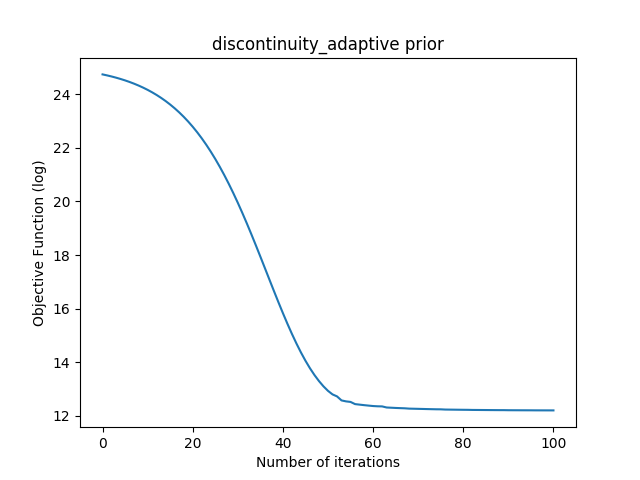
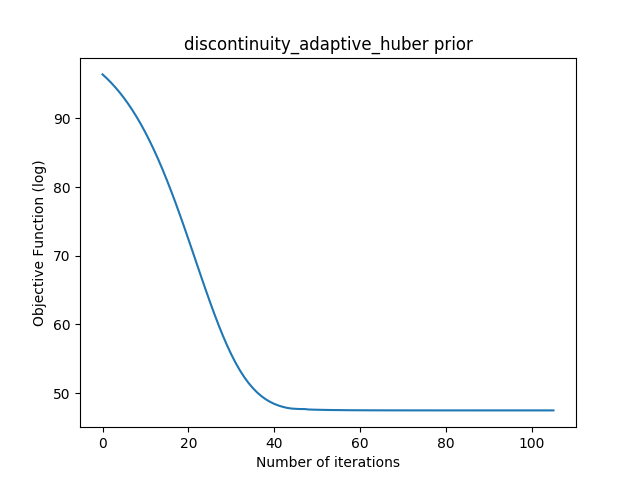
final changes + update main and results

diff --git a/assignmentDenoising/code/main.py b/assignmentDenoising/code/main.py
@@ -1,8 +1,10 @@
 import argparse
 import os
 import cv2
+import numpy as np
 import matplotlib.pyplot as plt
 from denoise import denoise
+from functions import *
 
 # Solve For question 1: Brain MRI images
 
@@ -13,84 +15,324 @@ low_noise_img = plt.imread('../data/mri_image_noise_level_low.png')
 med_noise_img = plt.imread('../data/mri_image_noise_level_medium.png')
 high_noise_img = plt.imread('../data/mri_image_noise_level_high.png')
 
-# Quadratic Prior
+print('QUADRATIC PRIOR')
+
 print('\n---------------------------------------------------------------------------------')
 print('Denoising Low Noise Level Image...')
-denoise(low_noise_img, denoised_img, beta=0.0875, optimize_mode=False, prior='quadratic', 
+denoise(low_noise_img, denoised_img, alpha=0.0875, optimize_mode=False, prior='quadratic', 
 	save_results_dir=os.path.join(save_results_dir, 'quadratic', 'low_noise_level'))
-print('RRMSE at 1.2 times optimum beta=', round(denoise(low_noise_img, denoised_img, beta=0.0875*1.2, optimize_mode=True, prior='quadratic', 
+print('RRMSE at 1.2 times optimum alpha=', round(denoise(low_noise_img, denoised_img, alpha=0.0875*1.2, optimize_mode=True, prior='quadratic', 
 	save_results_dir=os.path.join(save_results_dir, 'quadratic', 'low_noise_level')), 5))
-print('RRMSE at 0.8 times optimum beta=', round(denoise(low_noise_img, denoised_img, beta=0.0875*0.8, optimize_mode=True, prior='quadratic', 
+print('RRMSE at 0.8 times optimum alpha=', round(denoise(low_noise_img, denoised_img, alpha=0.0875*0.8, optimize_mode=True, prior='quadratic', 
 	save_results_dir=os.path.join(save_results_dir, 'quadratic', 'low_noise_level')), 5))
 print('---------------------------------------------------------------------------------\n')
 
 print('\n---------------------------------------------------------------------------------')
 print('Denoising Medium Noise Level Image...')
-denoise(med_noise_img, denoised_img, beta=0.1773, optimize_mode=False, prior='quadratic', 
+denoise(med_noise_img, denoised_img, alpha=0.1773, optimize_mode=False, prior='quadratic', 
 	save_results_dir=os.path.join(save_results_dir, 'quadratic', 'med_noise_level'))
-print('RRMSE at 1.2 times optimum beta=', round(denoise(med_noise_img, denoised_img, beta=0.1773*1.2, optimize_mode=True, prior='quadratic', 
+print('RRMSE at 1.2 times optimum alpha=', round(denoise(med_noise_img, denoised_img, alpha=0.1773*1.2, optimize_mode=True, prior='quadratic', 
 	save_results_dir=os.path.join(save_results_dir, 'quadratic', 'low_noise_level')), 5))
-print('RRMSE at 0.8 times optimum beta=', round(denoise(med_noise_img, denoised_img, beta=0.1773*0.8, optimize_mode=True, prior='quadratic', 
+print('RRMSE at 0.8 times optimum alpha=', round(denoise(med_noise_img, denoised_img, alpha=0.1773*0.8, optimize_mode=True, prior='quadratic', 
 	save_results_dir=os.path.join(save_results_dir, 'quadratic', 'low_noise_level')), 5))
 print('---------------------------------------------------------------------------------\n')
 
 print('\n---------------------------------------------------------------------------------')
 print('Denoising High Noise Level Image...')
-denoise(high_noise_img, denoised_img, beta=0.2407, optimize_mode=False, prior='quadratic', 
+denoise(high_noise_img, denoised_img, alpha=0.2407, optimize_mode=False, prior='quadratic', 
 	save_results_dir=os.path.join(save_results_dir, 'quadratic', 'high_noise_level'))
-print('RRMSE at 1.2 times optimum beta=', round(denoise(high_noise_img, denoised_img, beta=0.2407*1.2, optimize_mode=True, prior='quadratic', 
+print('RRMSE at 1.2 times optimum alpha=', round(denoise(high_noise_img, denoised_img, alpha=0.2407*1.2, optimize_mode=True, prior='quadratic', 
 	save_results_dir=os.path.join(save_results_dir, 'quadratic', 'low_noise_level')), 5))
-print('RRMSE at 0.8 times optimum beta=', round(denoise(high_noise_img, denoised_img, beta=0.2407*0.8, optimize_mode=True, prior='quadratic', 
+print('RRMSE at 0.8 times optimum alpha=', round(denoise(high_noise_img, denoised_img, alpha=0.2407*0.8, optimize_mode=True, prior='quadratic', 
 	save_results_dir=os.path.join(save_results_dir, 'quadratic', 'low_noise_level')), 5))
 print('---------------------------------------------------------------------------------\n')
 
 
+print('DISCONTINUITY ADAPTIVE PRIOR')
 
+print('\n---------------------------------------------------------------------------------')
+print('Denoising Low Noise Level Image...')
+denoise(low_noise_img, denoised_img, alpha=0.8748, gamma=0.0023, optimize_mode=False, prior='discontinuity_adaptive', 
+	save_results_dir=os.path.join(save_results_dir, 'discontinuity_adaptive', 'low_noise_level'))
+print('RRMSE at 1.2 times optimum alpha=', round(denoise(high_noise_img, denoised_img, alpha=0.8748*1.2, gamma=0.0023, optimize_mode=True, prior='discontinuity_adaptive', 
+	save_results_dir=os.path.join(save_results_dir, 'discontinuity_adaptive', 'low_noise_level')), 5))
+print('RRMSE at 0.8 times optimum alpha=', round(denoise(high_noise_img, denoised_img, alpha=0.8748*0.8, gamma=0.0023, optimize_mode=True, prior='discontinuity_adaptive', 
+	save_results_dir=os.path.join(save_results_dir, 'discontinuity_adaptive', 'low_noise_level')), 5))
+print('RRMSE at 1.2 times optimum gamma=', round(denoise(high_noise_img, denoised_img, alpha=0.8748, gamma=0.0023*1.2, optimize_mode=True, prior='discontinuity_adaptive', 
+	save_results_dir=os.path.join(save_results_dir, 'discontinuity_adaptive', 'low_noise_level')), 5))
+print('RRMSE at 0.8 times optimum gamma=', round(denoise(high_noise_img, denoised_img, alpha=0.8748, gamma=0.0023*0.8, optimize_mode=True, prior='discontinuity_adaptive', 
+	save_results_dir=os.path.join(save_results_dir, 'discontinuity_adaptive', 'low_noise_level')), 5))
+print('---------------------------------------------------------------------------------\n')
 
-# Discontinuity Adaptive Huber Prior
-# print('\n---------------------------------------------------------------------------------')
-# print('Denoising Low Noise Level Image...')
-# denoise(low_noise_img, denoised_img, beta=0.0875, optimize_mode=False, prior='discontinuity_adaptive_huber', 
-# 	save_results_dir=os.path.join(save_results_dir, 'discontinuity_adaptive_huber', 'low_noise_level'))
-# print('---------------------------------------------------------------------------------\n')
-
-# print('\n---------------------------------------------------------------------------------')
-# print('Denoising Medium Noise Level Image...')
-# denoise(med_noise_img, denoised_img, beta=0.1773, optimize_mode=False, prior='discontinuity_adaptive_huber', 
-# 	save_results_dir=os.path.join(save_results_dir, 'discontinuity_adaptive_huber', 'med_noise_level'))
-# print('---------------------------------------------------------------------------------\n')
-
-# print('\n---------------------------------------------------------------------------------')
-# print('Denoising High Noise Level Image...')
-# denoise(high_noise_img, denoised_img, beta=0.2407, optimize_mode=False, prior='discontinuity_adaptive_huber', 
-# 	save_results_dir=os.path.join(save_results_dir, 'discontinuity_adaptive_huber', 'high_noise_level'))
-# print('---------------------------------------------------------------------------------\n')
+print('\n---------------------------------------------------------------------------------')
+print('Denoising Medium Noise Level Image...')
+denoise(med_noise_img, denoised_img, alpha=0.8862, gamma=0.00438, optimize_mode=False, prior='discontinuity_adaptive', 
+	save_results_dir=os.path.join(save_results_dir, 'discontinuity_adaptive', 'med_noise_level'))
+print('RRMSE at 1.2 times optimum alpha=', round(denoise(high_noise_img, denoised_img, alpha=0.8862*1.2, gamma=0.00438, optimize_mode=True, prior='discontinuity_adaptive', 
+	save_results_dir=os.path.join(save_results_dir, 'discontinuity_adaptive', 'med_noise_level')), 5))
+print('RRMSE at 0.8 times optimum alpha=', round(denoise(high_noise_img, denoised_img, alpha=0.8862*0.8, gamma=0.00438, optimize_mode=True, prior='discontinuity_adaptive', 
+	save_results_dir=os.path.join(save_results_dir, 'discontinuity_adaptive', 'med_noise_level')), 5))
+print('RRMSE at 1.2 times optimum gamma=', round(denoise(high_noise_img, denoised_img, alpha=0.8862, gamma=0.00438*1.2, optimize_mode=True, prior='discontinuity_adaptive', 
+	save_results_dir=os.path.join(save_results_dir, 'discontinuity_adaptive', 'med_noise_level')), 5))
+print('RRMSE at 0.8 times optimum gamma=', round(denoise(high_noise_img, denoised_img, alpha=0.8862, gamma=0.00438*0.8, optimize_mode=True, prior='discontinuity_adaptive', 
+	save_results_dir=os.path.join(save_results_dir, 'discontinuity_adaptive', 'med_noise_level')), 5))
+print('---------------------------------------------------------------------------------\n')
 
 print('\n---------------------------------------------------------------------------------')
 print('Denoising High Noise Level Image...')
-denoise(high_noise_img, denoised_img, beta=0.9449, gamma=0.003, optimize_mode=False, prior='discontinuity_adaptive', 
-	save_results_dir=os.path.join(save_results_dir, 'discontinuity_adaptive_huber', 'high_noise_level'))
-print('RRMSE at 1.2 times optimum beta=', round(denoise(high_noise_img, denoised_img, beta=0.9449*1.2, gamma=0.003, optimize_mode=True, prior='discontinuity_adaptive', 
-	save_results_dir=os.path.join(save_results_dir, 'discontinuity_adaptive', 'low_noise_level')), 5))
-print('RRMSE at 0.8 times optimum beta=', round(denoise(high_noise_img, denoised_img, beta=0.9449*0.8, gamma=0.003, optimize_mode=True, prior='discontinuity_adaptive', 
-	save_results_dir=os.path.join(save_results_dir, 'discontinuity_adaptive', 'low_noise_level')), 5))
-print('RRMSE at 1.2 times optimum gamma=', round(denoise(high_noise_img, denoised_img, beta=0.9449, gamma=0.003*1.3, optimize_mode=True, prior='discontinuity_adaptive', 
-	save_results_dir=os.path.join(save_results_dir, 'discontinuity_adaptive', 'low_noise_level')), 5))
-print('RRMSE at 0.8 times optimum gamma=', round(denoise(high_noise_img, denoised_img, beta=0.9449, gamma=0.003*0.8, optimize_mode=True, prior='discontinuity_adaptive', 
-	save_results_dir=os.path.join(save_results_dir, 'discontinuity_adaptive', 'low_noise_level')), 5))
+denoise(high_noise_img, denoised_img, alpha=0.8738, gamma=0.008, optimize_mode=False, prior='discontinuity_adaptive', 
+	save_results_dir=os.path.join(save_results_dir, 'discontinuity_adaptive', 'high_noise_level'))
+print('RRMSE at 1.2 times optimum alpha=', round(denoise(high_noise_img, denoised_img, alpha=0.8738*1.2, gamma=0.008, optimize_mode=True, prior='discontinuity_adaptive', 
+	save_results_dir=os.path.join(save_results_dir, 'discontinuity_adaptive', 'high_noise_level')), 5))
+print('RRMSE at 0.8 times optimum alpha=', round(denoise(high_noise_img, denoised_img, alpha=0.8738*0.8, gamma=0.008, optimize_mode=True, prior='discontinuity_adaptive', 
+	save_results_dir=os.path.join(save_results_dir, 'discontinuity_adaptive', 'high_noise_level')), 5))
+print('RRMSE at 1.2 times optimum gamma=', round(denoise(high_noise_img, denoised_img, alpha=0.8738, gamma=0.008*1.2, optimize_mode=True, prior='discontinuity_adaptive', 
+	save_results_dir=os.path.join(save_results_dir, 'discontinuity_adaptive', 'high_noise_level')), 5))
+print('RRMSE at 0.8 times optimum gamma=', round(denoise(high_noise_img, denoised_img, alpha=0.8738, gamma=0.008*0.8, optimize_mode=True, prior='discontinuity_adaptive', 
+	save_results_dir=os.path.join(save_results_dir, 'discontinuity_adaptive', 'high_noise_level')), 5))
 print('---------------------------------------------------------------------------------\n')
+
+
+print('DISCONTINUITY ADAPTIVE HUBER PRIOR')
+
+print('\n---------------------------------------------------------------------------------')
+print('Denoising Low Noise Level Image...')
+denoise(low_noise_img, denoised_img, alpha=0.8748, gamma=0.00211, optimize_mode=False, prior='discontinuity_adaptive_huber', 
+	save_results_dir=os.path.join(save_results_dir, 'discontinuity_adaptive_huber', 'low_noise_level'))
+print('RRMSE at 1.2 times optimum alpha=', round(denoise(high_noise_img, denoised_img, alpha=0.8748*1.2, gamma=0.00211, optimize_mode=True, prior='discontinuity_adaptive_huber', 
+	save_results_dir=os.path.join(save_results_dir, 'discontinuity_adaptive_huber', 'low_noise_level')), 5))
+print('RRMSE at 0.8 times optimum alpha=', round(denoise(high_noise_img, denoised_img, alpha=0.8748*0.8, gamma=0.00211, optimize_mode=True, prior='discontinuity_adaptive_huber', 
+	save_results_dir=os.path.join(save_results_dir, 'discontinuity_adaptive_huber', 'low_noise_level')), 5))
+print('RRMSE at 1.2 times optimum gamma=', round(denoise(high_noise_img, denoised_img, alpha=0.8748, gamma=0.00211*1.2, optimize_mode=True, prior='discontinuity_adaptive_huber', 
+	save_results_dir=os.path.join(save_results_dir, 'discontinuity_adaptive_huber', 'low_noise_level')), 5))
+print('RRMSE at 0.8 times optimum gamma=', round(denoise(high_noise_img, denoised_img, alpha=0.8748, gamma=0.00211*0.8, optimize_mode=True, prior='discontinuity_adaptive_huber', 
+	save_results_dir=os.path.join(save_results_dir, 'discontinuity_adaptive_huber', 'low_noise_level')), 5))
+print('---------------------------------------------------------------------------------\n')
+
+print('\n---------------------------------------------------------------------------------')
+print('Denoising Medium Noise Level Image...')
+denoise(med_noise_img, denoised_img, alpha=0.8663, gamma=0.0048, optimize_mode=False, prior='discontinuity_adaptive_huber', 
+	save_results_dir=os.path.join(save_results_dir, 'discontinuity_adaptive_huber', 'med_noise_level'))
+print('RRMSE at 1.2 times optimum alpha=', round(denoise(high_noise_img, denoised_img, alpha=0.8663*1.2, gamma=0.0048, optimize_mode=True, prior='discontinuity_adaptive_huber', 
+	save_results_dir=os.path.join(save_results_dir, 'discontinuity_adaptive_huber', 'med_noise_level')), 5))
+print('RRMSE at 0.8 times optimum alpha=', round(denoise(high_noise_img, denoised_img, alpha=0.8663*0.8, gamma=0.0048, optimize_mode=True, prior='discontinuity_adaptive_huber', 
+	save_results_dir=os.path.join(save_results_dir, 'discontinuity_adaptive_huber', 'med_noise_level')), 5))
+print('RRMSE at 1.2 times optimum gamma=', round(denoise(high_noise_img, denoised_img, alpha=0.8663, gamma=0.0048*1.2, optimize_mode=True, prior='discontinuity_adaptive_huber', 
+	save_results_dir=os.path.join(save_results_dir, 'discontinuity_adaptive_huber', 'med_noise_level')), 5))
+print('RRMSE at 0.8 times optimum gamma=', round(denoise(high_noise_img, denoised_img, alpha=0.8663, gamma=0.0048*0.8, optimize_mode=True, prior='discontinuity_adaptive_huber', 
+	save_results_dir=os.path.join(save_results_dir, 'discontinuity_adaptive_huber', 'med_noise_level')), 5))
+print('---------------------------------------------------------------------------------\n')
+
+
+print('\n---------------------------------------------------------------------------------')
+print('Denoising High Noise Level Image...')
+denoise(high_noise_img, denoised_img, alpha=0.7729, gamma=0.01389, optimize_mode=False, prior='discontinuity_adaptive_huber', 
+	save_results_dir=os.path.join(save_results_dir, 'discontinuity_adaptive_huber', 'high_noise_level'))
+print('RRMSE at 1.2 times optimum alpha=', round(denoise(high_noise_img, denoised_img, alpha=0.7729*1.2, gamma=0.01389, optimize_mode=True, prior='discontinuity_adaptive_huber', 
+	save_results_dir=os.path.join(save_results_dir, 'discontinuity_adaptive_huber', 'high_noise_level')), 5))
+print('RRMSE at 0.8 times optimum alpha=', round(denoise(high_noise_img, denoised_img, alpha=0.7729*0.8, gamma=0.01389, optimize_mode=True, prior='discontinuity_adaptive_huber', 
+	save_results_dir=os.path.join(save_results_dir, 'discontinuity_adaptive_huber', 'high_noise_level')), 5))
+print('RRMSE at 1.2 times optimum gamma=', round(denoise(high_noise_img, denoised_img, alpha=0.7729, gamma=0.01389*1.2, optimize_mode=True, prior='discontinuity_adaptive_huber', 
+	save_results_dir=os.path.join(save_results_dir, 'discontinuity_adaptive_huber', 'high_noise_level')), 5))
+print('RRMSE at 0.8 times optimum gamma=', round(denoise(high_noise_img, denoised_img, alpha=0.7729, gamma=0.01389*0.8, optimize_mode=True, prior='discontinuity_adaptive_huber', 
+	save_results_dir=os.path.join(save_results_dir, 'discontinuity_adaptive_huber', 'high_noise_level')), 5))
+print('---------------------------------------------------------------------------------\n')
+
 
 
 # Solve For question 2: Histology Images
 
-denoised_img = cv2.imread('../data/histology_noiseless.png')
-denoised_img = cv2.normalize(denoised_img.astype('float'), None, 0.0, 1.0, cv2.NORM_MINMAX)
-noisy_img = cv2.imread('../data/histology_noisy.png')
-noisy_img = cv2.normalize(denoised_img.astype('float'), None, 0.0, 1.0, cv2.NORM_MINMAX)
+noiseless_img = cv2.cvtColor(plt.imread('../data/histology_noiseless.png'), cv2.COLOR_BGR2HSV)
+noisy_img = cv2.cvtColor(plt.imread('../data/histology_noisy.png'), cv2.COLOR_BGR2HSV)
 
-# print('Solving for Histology Image')
-# denoise(noisy_img, denoised_img)
+print('\n Solving Question 2. Original RMSE:', rrmse(noiseless_img, noisy_img))
 
+print('\nQuestion 2: QUADRATIC PRIOR')
+save_results_dir = '../results/q2/'
+
+print('\n---------------------------------------------------------------------------------')
+print('Denoising H Channel...')
+channel_0, post_values_0 = denoise(noisy_img[:,:,0], noiseless_img[:,:,0], alpha=0.9919, gamma=0, optimize_mode=False, prior='quadratic', 
+	save_results_dir=os.path.join(save_results_dir, 'quadratic', 'H'), color_mode=True)
+print('RRMSE at 1.2 times optimum alpha=', round(denoise(noisy_img[:,:,0], noiseless_img[:,:,0], alpha=0.9919*1.2, gamma=1, optimize_mode=True, prior='quadratic', 
+	color_mode=True), 5))
+print('RRMSE at 0.8 times optimum alpha=', round(denoise(noisy_img[:,:,0], noiseless_img[:,:,0], alpha=0.9919*0.8, gamma=1, optimize_mode=True, prior='quadratic', 
+	color_mode=True), 5))
+print('---------------------------------------------------------------------------------\n')
+
+print('\n---------------------------------------------------------------------------------')
+print('Denoising S Channel...')
+channel_1, post_values_1 = denoise(noisy_img[:,:,1], noiseless_img[:,:,1], alpha=0.75275, gamma=0, optimize_mode=False, prior='quadratic', 
+	save_results_dir=os.path.join(save_results_dir, 'quadratic', 'S'), color_mode=True)
+print('RRMSE at 1.2 times optimum alpha=', round(denoise(noisy_img[:,:,1], noiseless_img[:,:,1], alpha=0.75275*1.2, gamma=1, optimize_mode=True, prior='quadratic', 
+	color_mode=True), 5))
+print('RRMSE at 0.8 times optimum alpha=', round(denoise(noisy_img[:,:,1], noiseless_img[:,:,1], alpha=0.75275*0.8, gamma=1, optimize_mode=True, prior='quadratic', 
+	color_mode=True), 5))
+print('---------------------------------------------------------------------------------\n')
+
+print('\n---------------------------------------------------------------------------------')
+print('Denoising V Channel...')
+channel_2, post_values_2 = denoise(noisy_img[:,:,2], noiseless_img[:,:,2], alpha=0.7137, gamma=0, optimize_mode=False, prior='quadratic', 
+	save_results_dir=os.path.join(save_results_dir, 'quadratic', 'V'), color_mode=True)
+print('RRMSE at 1.2 times optimum alpha=', round(denoise(noisy_img[:,:,2], noiseless_img[:,:,2], alpha=0.7137*1.2, gamma=1, optimize_mode=True, prior='quadratic', 
+	color_mode=True), 5))
+print('RRMSE at 0.8 times optimum alpha=', round(denoise(noisy_img[:,:,2], noiseless_img[:,:,2], alpha=0.7137*0.8, gamma=1, optimize_mode=True, prior='quadratic', 
+	color_mode=True), 5))
+print('---------------------------------------------------------------------------------\n')
+
+
+denoised_img = np.zeros_like(noisy_img)
+denoised_img[:,:,0] = channel_0 
+denoised_img[:,:,1] = channel_1
+denoised_img[:,:,2] = channel_2
+
+plt.imshow(noisy_img)
+plt.savefig(os.path.join(save_results_dir, 'noisy_img.png'))
+plt.imshow(noiseless_img)
+plt.savefig(os.path.join(save_results_dir, 'ground_turth_denoised_img.png'))
+
+plt.imshow(denoised_img)
+plt.savefig(os.path.join(save_results_dir, 'quadratic_denoised_img.png'))
+plt.clf()
+plt.plot(post_values_0, label='H Channel')
+plt.plot(post_values_1, label='S Channel')
+plt.plot(post_values_2, label='V Channel')
+plt.legend()
+plt.xlabel('Number of iterations')
+plt.ylabel('Objective Function (log)')
+plt.title('Quadratic prior')
+plt.savefig(os.path.join(save_results_dir, 'quadratic_all_channel_objective_function.png'))
+
+print('\nRMSE after quadratic prior denoising:', rrmse(noiseless_img, denoised_img))
+
+print('\nQuestion 2: HUBER PRIOR')
+
+print('\n---------------------------------------------------------------------------------')
+print('Denoising H Channel...')
+channel_0, post_values_0 = denoise(noisy_img[:,:,0], noiseless_img[:,:,0], alpha=1, gamma=1, optimize_mode=False, prior='discontinuity_adaptive_huber', 
+	save_results_dir=os.path.join(save_results_dir, 'huber', 'H'), color_mode=True)
+print('RRMSE at 1.2 times optimum alpha=', round(denoise(noisy_img[:,:,0], noiseless_img[:,:,0], alpha=1*1.2, gamma=1, optimize_mode=True, prior='discontinuity_adaptive_huber', 
+	color_mode=True), 5))
+print('RRMSE at 0.8 times optimum alpha=', round(denoise(noisy_img[:,:,0], noiseless_img[:,:,0], alpha=1*0.8, gamma=1, optimize_mode=True, prior='discontinuity_adaptive_huber', 
+	color_mode=True), 5))
+print('RRMSE at 1.2 times optimum gamma=', round(denoise(noisy_img[:,:,0], noiseless_img[:,:,0], alpha=1, gamma=1*1.2, optimize_mode=True, prior='discontinuity_adaptive_huber', 
+	color_mode=True), 5))
+print('RRMSE at 0.8 times optimum gamma=', round(denoise(noisy_img[:,:,0], noiseless_img[:,:,0], alpha=1, gamma=1*0.8, optimize_mode=True, prior='discontinuity_adaptive_huber', 
+	color_mode=True), 5))
+print('---------------------------------------------------------------------------------\n')
+
+print('\n---------------------------------------------------------------------------------')
+print('Denoising S Channel...')
+channel_1, post_values_1 = denoise(noisy_img[:,:,1], noiseless_img[:,:,1], alpha=0.8974, gamma=0.02662, optimize_mode=False, prior='discontinuity_adaptive_huber', 
+	save_results_dir=os.path.join(save_results_dir, 'huber', 'S'), color_mode=True)
+print('RRMSE at 1.2 times optimum alpha=', round(denoise(noisy_img[:,:,1], noiseless_img[:,:,1], alpha=0.8974*1.2, gamma=0.02662, optimize_mode=True, prior='discontinuity_adaptive_huber', 
+	color_mode=True), 5))
+print('RRMSE at 0.8 times optimum alpha=', round(denoise(noisy_img[:,:,1], noiseless_img[:,:,1], alpha=0.8974*0.8, gamma=0.02662, optimize_mode=True, prior='discontinuity_adaptive_huber', 
+	color_mode=True), 5))
+print('RRMSE at 1.2 times optimum gamma=', round(denoise(noisy_img[:,:,1], noiseless_img[:,:,1], alpha=0.8974, gamma=0.02662*1.2, optimize_mode=True, prior='discontinuity_adaptive_huber', 
+	color_mode=True), 5))
+print('RRMSE at 0.8 times optimum gamma=', round(denoise(noisy_img[:,:,1], noiseless_img[:,:,1], alpha=0.8974, gamma=0.02662*0.8, optimize_mode=True, prior='discontinuity_adaptive_huber', 
+	color_mode=True), 5))
+print('---------------------------------------------------------------------------------\n')
+
+print('\n---------------------------------------------------------------------------------')
+print('Denoising V Channel...')
+channel_2, post_values_2 = denoise(noisy_img[:,:,2], noiseless_img[:,:,2], alpha=0.8718, gamma=0.02662, optimize_mode=False, prior='discontinuity_adaptive_huber', 
+	save_results_dir=os.path.join(save_results_dir, 'huber', 'V'), color_mode=True)
+print('RRMSE at 1.2 times optimum alpha=', round(denoise(noisy_img[:,:,2], noiseless_img[:,:,2], alpha=0.8718*1.2, gamma=0.02662, optimize_mode=True, prior='discontinuity_adaptive_huber', 
+	color_mode=True), 5))
+print('RRMSE at 0.8 times optimum alpha=', round(denoise(noisy_img[:,:,2], noiseless_img[:,:,2], alpha=0.8718*0.8, gamma=0.02662, optimize_mode=True, prior='discontinuity_adaptive_huber', 
+	color_mode=True), 5))
+print('RRMSE at 1.2 times optimum gamma=', round(denoise(noisy_img[:,:,2], noiseless_img[:,:,2], alpha=0.8718, gamma=0.02662*1.2, optimize_mode=True, prior='discontinuity_adaptive_huber', 
+	color_mode=True), 5))
+print('RRMSE at 0.8 times optimum gamma=', round(denoise(noisy_img[:,:,2], noiseless_img[:,:,2], alpha=0.8718, gamma=0.02662*0.8, optimize_mode=True, prior='discontinuity_adaptive_huber', 
+	color_mode=True), 5))
+print('---------------------------------------------------------------------------------\n')
+
+
+denoised_img = np.zeros_like(noisy_img)
+denoised_img[:,:,0] = channel_0 
+denoised_img[:,:,1] = channel_1
+denoised_img[:,:,2] = channel_2
+
+plt.imshow(denoised_img)
+plt.savefig(os.path.join(save_results_dir, 'huber_denoised_img.png'))
+plt.clf()
+plt.plot(post_values_0, label='H Channel')
+plt.plot(post_values_1, label='S Channel')
+plt.plot(post_values_2, label='V Channel')
+plt.legend()
+plt.xlabel('Number of iterations')
+plt.ylabel('Objective Function (log)')
+plt.title('Discontinuity Adaptive Huber prior')
+plt.savefig(os.path.join(save_results_dir, 'huber_all_channel_objective_function.png'))
+
+print('\nRMSE after huber prior denoising:', rrmse(noiseless_img, denoised_img))
+
+
+print('Question 2: DISCONTINUITY ADAPTIVE PRIOR')
+
+print('\n---------------------------------------------------------------------------------')
+print('Denoising H Channel...')
+channel_0, post_values_0 = denoise(noisy_img[:,:,0], noiseless_img[:,:,0], alpha=1, gamma=1, optimize_mode=False, prior='discontinuity_adaptive', 
+	save_results_dir=os.path.join(save_results_dir, 'adaptive', 'H'), color_mode=True)
+print('RRMSE at 1.2 times optimum alpha=', round(denoise(noisy_img[:,:,0], noiseless_img[:,:,0], alpha=1*1.2, gamma=1, optimize_mode=True, prior='discontinuity_adaptive', 
+	color_mode=True), 5))
+print('RRMSE at 0.8 times optimum alpha=', round(denoise(noisy_img[:,:,0], noiseless_img[:,:,0], alpha=1*0.8, gamma=1, optimize_mode=True, prior='discontinuity_adaptive', 
+	color_mode=True), 5))
+print('RRMSE at 1.2 times optimum gamma=', round(denoise(noisy_img[:,:,0], noiseless_img[:,:,0], alpha=1, gamma=1*1.2, optimize_mode=True, prior='discontinuity_adaptive', 
+	color_mode=True), 5))
+print('RRMSE at 0.8 times optimum gamma=', round(denoise(noisy_img[:,:,0], noiseless_img[:,:,0], alpha=1, gamma=1*0.8, optimize_mode=True, prior='discontinuity_adaptive', 
+	color_mode=True), 5))
+print('---------------------------------------------------------------------------------\n')
+
+print('\n---------------------------------------------------------------------------------')
+print('Denoising S Channel...')
+channel_1, post_values_1 = denoise(noisy_img[:,:,1], noiseless_img[:,:,1], alpha=0.93878, gamma=0.02139, optimize_mode=False, prior='discontinuity_adaptive', 
+	save_results_dir=os.path.join(save_results_dir, 'adaptive', 'S'), color_mode=True)
+print('RRMSE at 1.2 times optimum alpha=', round(denoise(noisy_img[:,:,1], noiseless_img[:,:,1], alpha=0.93878*1.2, gamma=0.02139, optimize_mode=True, prior='discontinuity_adaptive', 
+	color_mode=True), 5))
+print('RRMSE at 0.8 times optimum alpha=', round(denoise(noisy_img[:,:,1], noiseless_img[:,:,1], alpha=0.93878*0.8, gamma=0.02139, optimize_mode=True, prior='discontinuity_adaptive', 
+	color_mode=True), 5))
+print('RRMSE at 1.2 times optimum gamma=', round(denoise(noisy_img[:,:,1], noiseless_img[:,:,1], alpha=0.93878, gamma=0.02139*1.2, optimize_mode=True, prior='discontinuity_adaptive', 
+	color_mode=True), 5))
+print('RRMSE at 0.8 times optimum gamma=', round(denoise(noisy_img[:,:,1], noiseless_img[:,:,1], alpha=0.93878, gamma=0.02139*0.8, optimize_mode=True, prior='discontinuity_adaptive', 
+	color_mode=True), 5))
+print('---------------------------------------------------------------------------------\n')
+
+print('\n---------------------------------------------------------------------------------')
+print('Denoising V Channel...')
+channel_2, post_values_2 = denoise(noisy_img[:,:,2], noiseless_img[:,:,2], alpha=0.9184, gamma=0.02138, optimize_mode=False, prior='discontinuity_adaptive', 
+	save_results_dir=os.path.join(save_results_dir, 'adaptive', 'V'), color_mode=True)
+print('RRMSE at 1.2 times optimum alpha=', round(denoise(noisy_img[:,:,2], noiseless_img[:,:,2], alpha=0.9184*1.2, gamma=0.02138, optimize_mode=True, prior='discontinuity_adaptive', 
+	color_mode=True), 5))
+print('RRMSE at 0.8 times optimum alpha=', round(denoise(noisy_img[:,:,2], noiseless_img[:,:,2], alpha=0.9184*0.8, gamma=0.02138, optimize_mode=True, prior='discontinuity_adaptive', 
+	color_mode=True), 5))
+print('RRMSE at 1.2 times optimum gamma=', round(denoise(noisy_img[:,:,2], noiseless_img[:,:,2], alpha=0.9184, gamma=0.02138*1.2, optimize_mode=True, prior='discontinuity_adaptive', 
+	color_mode=True), 5))
+print('RRMSE at 0.8 times optimum gamma=', round(denoise(noisy_img[:,:,2], noiseless_img[:,:,2], alpha=0.9184, gamma=0.02138*0.8, optimize_mode=True, prior='discontinuity_adaptive', 
+	color_mode=True), 5))
+print('---------------------------------------------------------------------------------\n')
+
+
+denoised_img = np.zeros_like(noisy_img)
+denoised_img[:,:,0] = channel_0 
+denoised_img[:,:,1] = channel_1
+denoised_img[:,:,2] = channel_2
+
+plt.imshow(denoised_img)
+plt.savefig(os.path.join(save_results_dir, 'discontinuity_adaptive_denoised_img.png'))
+plt.clf()
+plt.plot(post_values_0, label='H Channel')
+plt.plot(post_values_1, label='S Channel')
+plt.plot(post_values_2, label='V Channel')
+plt.legend()
+plt.xlabel('Number of iterations')
+plt.ylabel('Objective Function (log)')
+plt.title('Discontinuity_Adaptive prior')
+plt.savefig(os.path.join(save_results_dir, 'adaptive_all_channel_objective_function.png'))
+
+print('\nRMSE after discontinuity adaptive prior denoising:', rrmse(noiseless_img, denoised_img))
 
 
 

diff --git a/assignmentDenoising/code/denoise.py b/assignmentDenoising/code/denoise.py
@@ -76,9 +76,6 @@ def denoise(noisy_img, denoised_img, alpha=0.6, gamma=0.5, optimize_mode=False, 
 		print('Initial RRMSE between Noisy and Denoised Image:', round(rrmse(denoised_img, noisy_img),5))
 		print('Denoising done in {} updates. RRMSE after denoising = {:.5f}'.format(counter, rrmse(denoised_img, x)) )
 
-		if color_mode: 
-			return x
-
 		plt.clf()
 		plt.plot(np.arange(counter+1), post_values)
 		plt.xlabel('Number of iterations')
@@ -97,6 +94,9 @@ def denoise(noisy_img, denoised_img, alpha=0.6, gamma=0.5, optimize_mode=False, 
 
 		plt.imshow(x, cmap=cmap)
 		plt.savefig(os.path.join(save_results_dir, '{}_prior_denoised_img.png'.format(prior)))
+
+		if color_mode: 
+			return x, post_values
 
 
 
